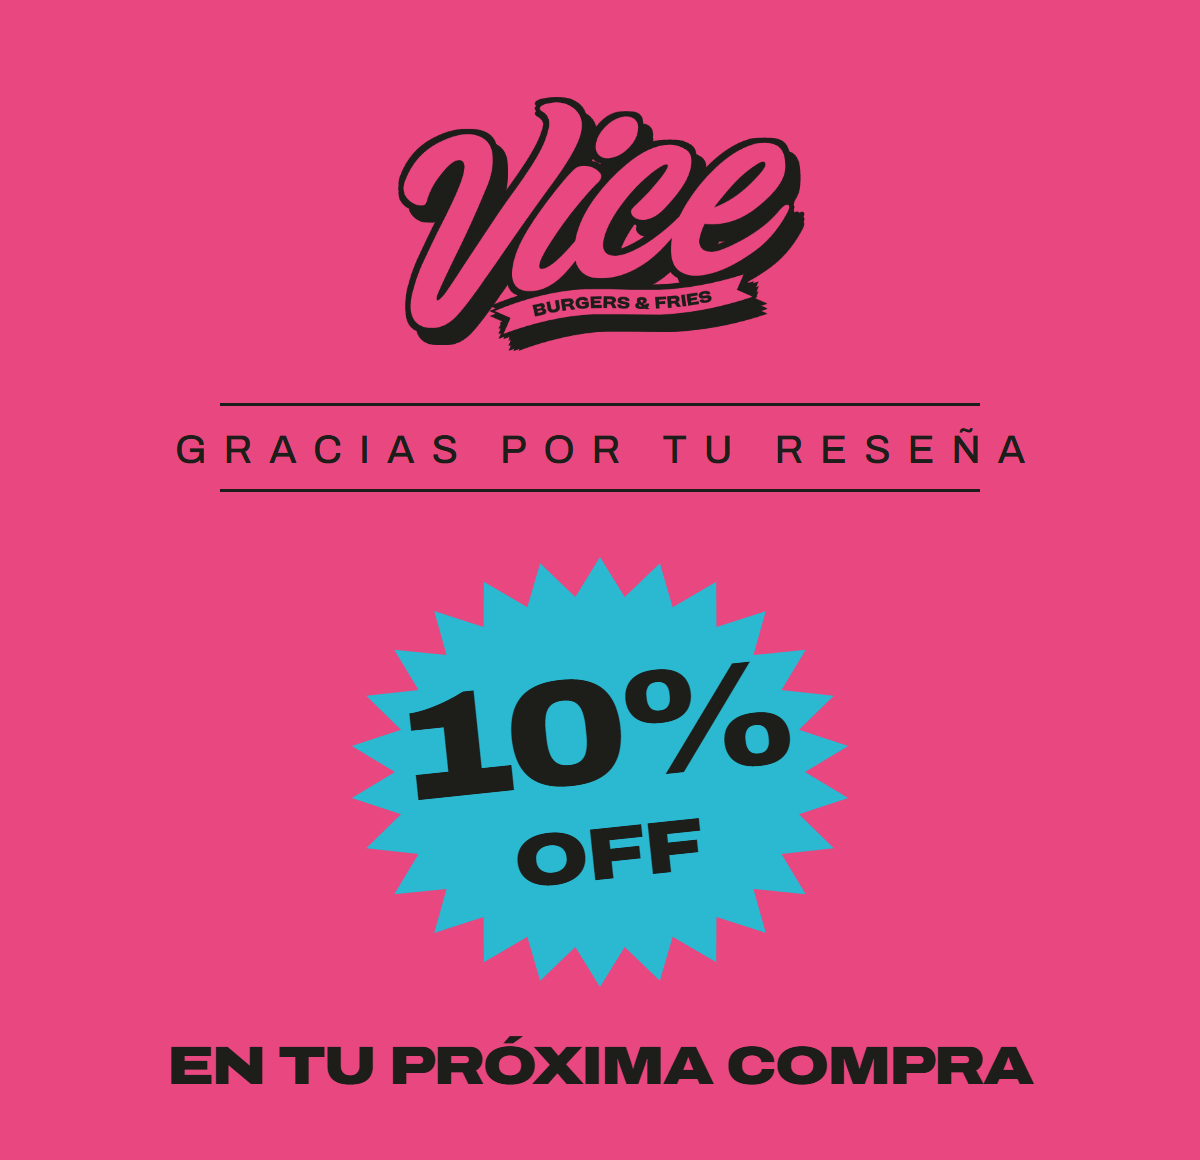
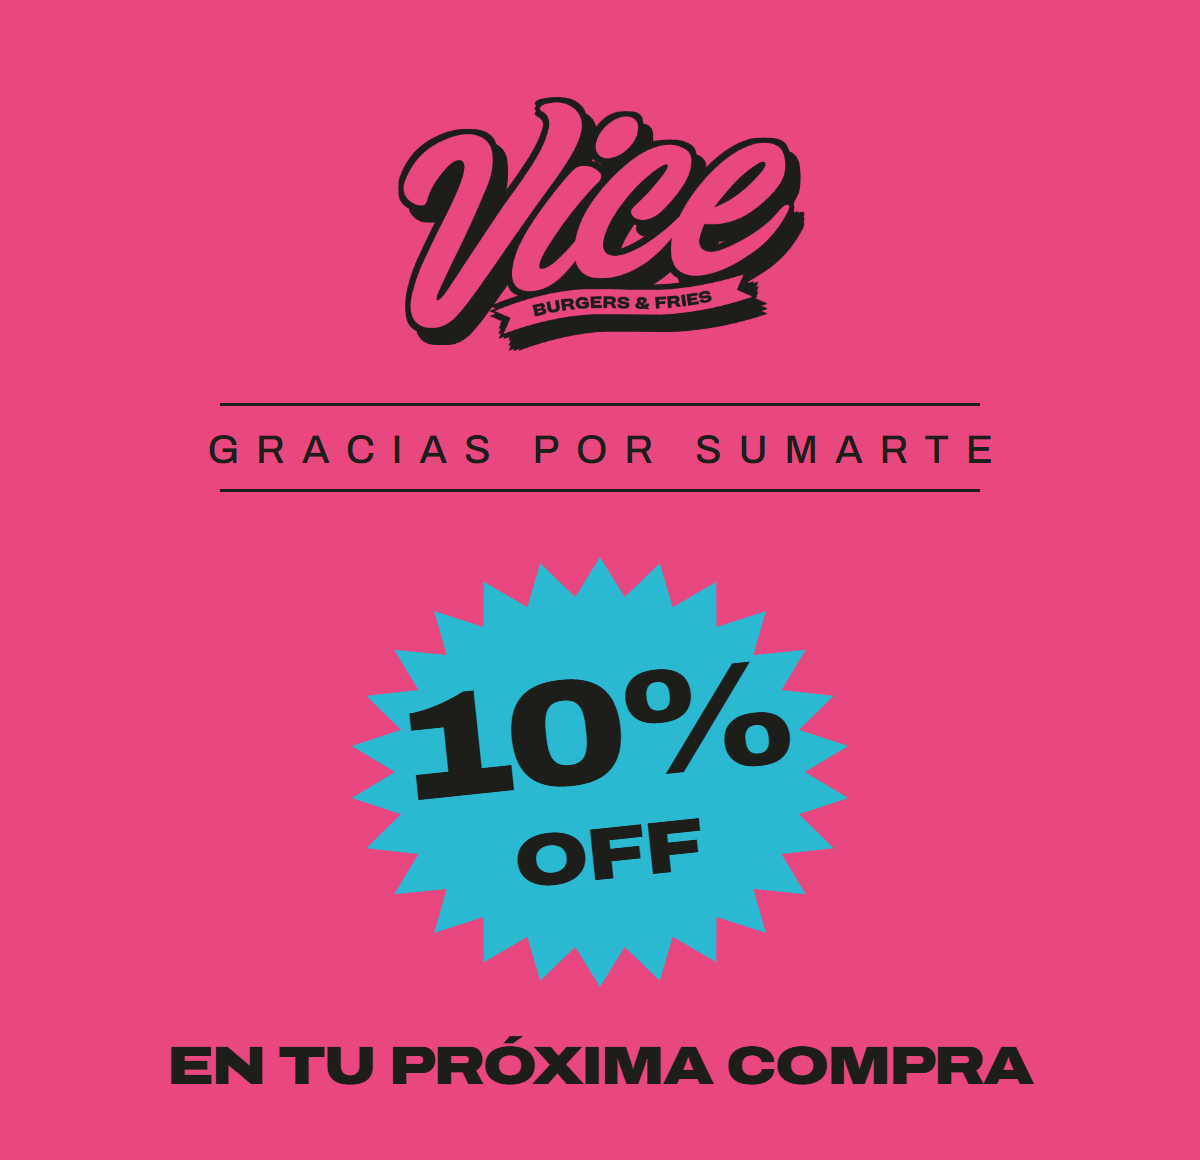
Cupon: canal de Instagram, vence 29/11, deshacer canje

Changed region(s): [[0.1233, 0.3724, 0.8633, 0.4034]]

diff --git a/cupon/index.html b/cupon/index.html
@@ -4,7 +4,7 @@
 <meta charset="utf-8">
 <meta name="viewport" content="width=device-width, initial-scale=1, viewport-fit=cover">
 <title>Vice Burgers &amp; Fries · 10% OFF</title>
-<meta name="description" content="Dejá tu reseña de Vice en Google y llevate 10% OFF en tu próxima compra.">
+<meta name="description" content="Sumate al canal de Vice en Instagram y llevate 10% OFF en tu próxima compra.">
 <meta name="theme-color" content="#121210">
 <meta name="robots" content="noindex, nofollow">
 <link rel="icon" type="image/png" href="../avatar.png">
@@ -16,7 +16,8 @@
   // Completar antes de imprimir el QR.
   window.CUPON_CFG = {
     servidor: 'https://script.google.com/macros/s/AKfycby7teQg4MR0Lwze4CrICpsh6sWb2b6Hky9Z5K-FqVvsVLNtiBulX4IV2b3tTcq9AxHn/exec',  // Apps Script "Cupones Vice"
-    resena: 'https://g.page/r/CUMh-u6V9haMEAI/review',  // PROVISORIO: es el de Ideamia. Cambiar por el de Vice cuando verifiquen el perfil.
+    canal: '',  // link de invitación al canal de Instagram de Vice (Viciosos). FALTA.
+    vence: 'domingo 29/11',  // tiene que coincidir con VENCE en Code.gs
     googleClientId: '538996190430-j9mcpj6k7jp26391nkhojkmc9ksm4g66.apps.googleusercontent.com'  // ID de cliente OAuth (Google Cloud, cuenta de Vice). Vacío = solo mail escrito.
   };
 </script>
@@ -88,6 +89,14 @@
   .btn.cyan{background:var(--cyan-hi); box-shadow:0 0 16px rgba(43,184,209,.7)}
   .btn svg{width:18px; height:18px; flex:none}
 
+  .ig{display:block; font-size:13px; font-weight:600; color:var(--soft)}
+  .arroba{display:flex; align-items:center; margin-top:8px; min-height:52px; border-radius:14px; padding:0 14px;
+    background:rgba(0,0,0,.35); border:1.5px solid rgba(255,255,255,.18)}
+  .arroba:focus-within{border-color:var(--cyan); box-shadow:0 0 12px rgba(43,184,209,.45)}
+  .arroba b{color:var(--pink-hi); font-size:18px; margin-right:4px}
+  .arroba input{flex:1; min-width:0; background:none; border:0; outline:none; color:var(--ink); font:500 16px Inter, system-ui, sans-serif}
+  .arroba input::placeholder{color:var(--muted)}
+  #gzona.espera{opacity:.35; pointer-events:none}
   .gbtn{display:flex; justify-content:center; min-height:44px}
   .bloq .gbtn, .bloq .otro{pointer-events:none}
   .otro{display:block; margin:12px auto 0; background:none; border:0; cursor:pointer;
@@ -130,19 +139,23 @@
     <div class="intro">
       <div class="off">10%<small>OFF</small></div>
       <h1>en tu próxima visita</h1>
-      <p>Contanos en Google qué te pareció Vice y te mandamos un cupón a tu mail.</p>
+      <p>Sumate al canal de Vice en Instagram y te mandamos un cupón a tu mail.</p>
     </div>
 
     <section class="paso" id="p1">
-      <div class="paso-t"><span class="num">1</span>Dejá tu reseña</div>
-      <a class="btn" id="irResena" href="#" target="_blank" rel="noopener">
-        <svg viewBox="0 0 24 24" fill="currentColor" aria-hidden="true"><path d="M12 2.5l2.9 6 6.6.9-4.8 4.6 1.2 6.5L12 17.4l-5.9 3.1 1.2-6.5L2.5 9.4l6.6-.9z"/></svg>
-        Reseñar en Google
+      <div class="paso-t"><span class="num">1</span>Sumate al canal</div>
+      <a class="btn" id="irCanal" href="#" target="_blank" rel="noopener">
+        <svg viewBox="0 0 24 24" fill="none" stroke="currentColor" stroke-width="2.2" aria-hidden="true"><rect x="3" y="3" width="18" height="18" rx="5"/><circle cx="12" cy="12" r="4"/><circle cx="17.5" cy="6.5" r="1" fill="currentColor"/></svg>
+        Entrar al canal
       </a>
     </section>
 
     <section class="paso bloq" id="p2">
       <div class="paso-t"><span class="num">2</span>Recibí tu cupón</div>
+      <label class="ig" for="ig">Tu usuario de Instagram
+        <span class="arroba"><b>@</b><input id="ig" type="text" autocomplete="off" autocapitalize="none" spellcheck="false" placeholder="tuusuario" disabled></span>
+      </label>
+      <p class="nota" style="margin:6px 0 14px">Con este usuario chequeamos que estés en el canal.</p>
       <div id="gzona" hidden>
         <div class="gbtn" id="gbtn"></div>
         <button class="otro" id="otro" type="button">Prefiero escribir mi mail</button>
@@ -157,7 +170,7 @@
       <div class="msg" id="msg" role="status" hidden></div>
     </section>
 
-    <p class="legal">Un cupón por persona y por mail. Válido por 30 días en el local, mostrando el QR del mail al pagar. Se usa una sola vez. No acumulable con otras promos. <a href="privacidad.html" style="color:inherit">Privacidad</a></p>
+    <p class="legal">Un cupón por persona. Válido hasta el <span id="vence">domingo 29/11</span> en el local, mostrando el QR del mail al pagar. Se usa una sola vez. No acumulable con otros descuentos del local. <a href="privacidad.html" style="color:inherit">Privacidad</a></p>
   </div></div>
 </main>
 
@@ -172,23 +185,41 @@
   function leer(){ try { return JSON.parse(localStorage.getItem(LS)) || {}; } catch(e){ return {}; } }
   function guardar(o){ try { localStorage.setItem(LS, JSON.stringify(o)); } catch(e){} }
 
-  $('irResena').href = CFG.resena || 'https://www.google.com/maps/search/Vice+Burgers+%26+Fries';
+  $('irCanal').href = CFG.canal || 'https://www.instagram.com/';
+  if (CFG.vence) $('vence').textContent = CFG.vence;
+  var ig = $('ig');
 
   function habilitar(){
     p1.classList.add('hecho');
     p2.classList.remove('bloq');
-    email.disabled = false; enviar.disabled = false;
+    ig.disabled = false; email.disabled = false; enviar.disabled = false;
   }
 
   var estado = leer();
-  if (estado.resena) habilitar();
+  if (estado.canal) habilitar();
+  if (estado.ig) ig.value = estado.ig;
   if (estado.enviado) mostrar('ok', 'Ya te mandamos el cupón a <b>' + esc(estado.enviado) + '</b>. Si no lo ves, fijate en Promociones o Spam.');
 
-  $('irResena').addEventListener('click', function(){
-    var s = leer(); s.resena = Date.now(); guardar(s);
-    // Se habilita al volver a esta pestaña, así primero reseñan.
+  $('irCanal').addEventListener('click', function(){
+    var s = leer(); s.canal = Date.now(); guardar(s);
+    // Se habilita al volver a esta pestaña, así primero entran al canal.
     setTimeout(habilitar, 1500);
   });
+
+  // Usuario de Instagram: letras, números, punto y guion bajo, hasta 30.
+  function usuarioIg(){
+    var v = ig.value.trim().replace(/^@+/, '').replace(/^https?:\/\/(www\.)?instagram\.com\//i, '').replace(/[/?#].*$/, '').toLowerCase();
+    return /^[a-z0-9._]{1,30}$/.test(v) ? v : '';
+  }
+  function revisarIg(){
+    $('gzona').classList.toggle('espera', !usuarioIg());
+  }
+  ig.addEventListener('input', revisarIg);
+  revisarIg();
+  function faltaIg(){
+    mostrar('error', 'Poné tu usuario de Instagram, así chequeamos que estés en el canal.');
+    ig.focus();
+  }
 
   // Con ID de cliente: botón "Continuar con Google" y el mail escrito queda como alternativa.
   var form = $('form');
@@ -258,6 +289,10 @@
   });
 
   function pedirCupon(datos, valor){
+    var usuario = usuarioIg();
+    if (!usuario) return faltaIg();
+    datos.ig = usuario;
+    var s0 = leer(); s0.ig = usuario; guardar(s0);
     cargando(true);
     pedir(datos)
       .then(function(r){
@@ -270,6 +305,12 @@
           mostrar('error', 'No pudimos confirmar tu cuenta de Google. Probá de nuevo o escribí tu mail.');
         } else if (r.motivo === 'ya') {
           mostrar('aviso', 'Este mail ya recibió su cupón. Es uno por persona.');
+        } else if (r.motivo === 'ya-ig') {
+          mostrar('aviso', 'Ese usuario de Instagram ya pidió su cupón. Es uno por persona.');
+        } else if (r.motivo === 'ig') {
+          faltaIg();
+        } else if (r.motivo === 'vencido') {
+          mostrar('aviso', 'La promo ya terminó. ¡Seguí atento al canal para la próxima!');
         } else if (r.motivo === 'descartable') {
           mostrar('error', 'Los mails temporales no valen para el cupón. Usá tu mail de siempre.');
         } else if (r.motivo === 'dominio') {

diff --git a/cupon/canje.html b/cupon/canje.html
@@ -56,6 +56,8 @@
   .e-canjeado{border-color:var(--ok); background:rgba(62,224,143,.1)}   .e-canjeado .grande{color:var(--ok)}
   .e-usado, .e-noexiste{border-color:var(--mal); background:rgba(255,107,107,.1)} .e-usado .grande, .e-noexiste .grande{color:var(--mal)}
   .e-vencido{border-color:var(--aviso); background:rgba(255,210,138,.08)} .e-vencido .grande{color:var(--aviso)}
+  .deshacer{width:100%; min-height:48px; border-radius:14px; cursor:pointer; background:none; border:1.5px solid rgba(255,255,255,.25);
+    color:var(--ink); font:600 14px Inter, sans-serif}
   .otro{background:none; border:0; color:var(--soft); font:500 14px Inter, sans-serif; text-decoration:underline; cursor:pointer; padding:8px}
   .spin{width:18px; height:18px; border-radius:50%; border:2.5px solid rgba(18,18,16,.3); border-top-color:var(--bg); animation:g .7s linear infinite}
   @keyframes g{to{transform:rotate(360deg)}}
@@ -94,6 +96,7 @@
     <div class="estado" id="estado"></div>
     <div class="fila" style="margin-top:14px">
       <button class="btn verde" id="canjear" hidden>Canjear 10%</button>
+      <button class="deshacer" id="deshacer" type="button" hidden>Me equivoqué: deshacer el canje</button>
       <button class="otro" id="otroCodigo" type="button">Buscar otro código</button>
     </div>
   </section>
@@ -128,21 +131,26 @@
   function consultar(accion){
     ver('vEstado');
     $('canjear').hidden = true;
+    $('deshacer').hidden = true;
     $('estado').className = 'estado';
-    $('estado').innerHTML = accion === 'canjear' ? '<div class="det">Canjeando…</div>' : '<div class="det">Buscando ' + esc(codigo) + '…</div>';
+    $('estado').innerHTML = accion === 'canjear' ? '<div class="det">Canjeando…</div>' :
+      accion === 'deshacer' ? '<div class="det">Deshaciendo…</div>' : '<div class="det">Buscando ' + esc(codigo) + '…</div>';
     pedir({ accion: accion, codigo: codigo }).then(function(r){
       if (!r.ok && r.motivo === 'clave') { clave = ''; guardarClave(''); ver('vClave'); mostrarErr('La clave no es correcta.'); return; }
       if (!r.ok && r.motivo === 'bloqueado') { pintar('usado', 'Bloqueado', '', 'Demasiados intentos con clave incorrecta. Esperá una hora.'); return; }
       if (!r.ok) { pintar('vencido', 'Error', codigo, 'No se pudo consultar. Probá de nuevo.'); return; }
       codigo = r.codigo || codigo;
-      var quien = r.email ? 'Cliente: <b>' + esc(r.email) + '</b><br>' : '';
+      var quien = (r.ig ? 'Instagram: <b>' + esc(r.ig) + '</b><br>' : '') + (r.email ? 'Mail: <b>' + esc(r.email) + '</b><br>' : '');
+      $('deshacer').hidden = !r.deshacer;
       if (r.estado === 'valido') {
-        pintar('valido', 'Válido', codigo, quien + 'Vence el <b>' + esc(r.vence) + '</b>');
+        pintar('valido', r.deshecho ? 'Canje deshecho' : 'Válido', codigo, (r.deshecho ? 'El cupón volvió a quedar <b>sin usar</b>.<br>' : '') +
+          quien + 'Vence el <b>' + esc(r.vence) + '</b>');
         $('canjear').hidden = false;
       } else if (r.estado === 'canjeado') {
-        pintar('canjeado', '✓ Canjeado', codigo, quien + 'Aplicá el <b>10% de descuento</b>.<br>Quedó marcado como usado el ' + esc(r.usado) + '.');
+        pintar('canjeado', '✓ Canjeado', codigo, quien + 'Aplicá el <b>10% de descuento</b>.<br>No acumulable con otros descuentos del local.<br>Quedó marcado como usado el ' + esc(r.usado) + '.');
       } else if (r.estado === 'usado') {
-        pintar('usado', 'Ya usado', codigo, quien + 'Se canjeó el <b>' + esc(r.usado || 'antes') + '</b>.<br>No aplicar el descuento.');
+        pintar('usado', 'Ya usado', codigo, quien + 'Se canjeó el <b>' + esc(r.usado || 'antes') + '</b>.<br>No aplicar el descuento.' +
+          (r.deshacer ? '<br>Si lo marcaron por error recién, podés deshacerlo abajo.' : ''));
       } else if (r.estado === 'vencido') {
         pintar('vencido', 'Vencido', codigo, quien + 'Venció el <b>' + esc(r.vence) + '</b>.');
       } else {
@@ -175,6 +183,10 @@
     $('canjear').innerHTML = '<span class="spin"></span>Canjeando';
     consultar('canjear');
     setTimeout(function(){ $('canjear').disabled = false; $('canjear').textContent = 'Canjear 10%'; }, 500);
+  });
+  $('deshacer').addEventListener('click', function(){
+    if (!confirm('¿Deshacer el canje de ' + codigo + '? El cupón vuelve a quedar sin usar.')) return;
+    consultar('deshacer');
   });
   $('otroCodigo').addEventListener('click', function(){
     codigo = ''; history.replaceState(null, '', location.pathname); ver('vCodigo'); $('codigo').focus();

diff --git a/cupon/privacidad.html b/cupon/privacidad.html
@@ -27,13 +27,14 @@
 <body>
 <main>
   <h1>Política de privacidad</h1>
-  <p class="fecha">Promoción "10% OFF por tu reseña" · Vice Burgers &amp; Fries · Actualizada el 26/10/2026</p>
+  <p class="fecha">Promoción "10% OFF por sumarte al canal" · Vice Burgers &amp; Fries · Actualizada el 17/11/2026</p>
 
   <p>Esta política explica qué datos usamos cuando pedís tu cupón de descuento en <a href="./">esta página</a>.</p>
 
   <h2>Qué datos guardamos</h2>
   <ul>
     <li><b>Tu dirección de mail</b>, la escribas o la compartas con "Continuar con Google".</li>
+    <li><b>Tu usuario de Instagram</b>, para chequear que estés en el canal de Vice.</li>
     <li>La fecha en que pediste el cupón, el código que te asignamos, su vencimiento y si ya lo usaste.</li>
   </ul>
   <p>Si usás "Continuar con Google", Google nos comparte solo tu mail y tu nombre. No accedemos a tu cuenta, tus contactos, tus correos ni a nada más, y no guardamos tu nombre.</p>
